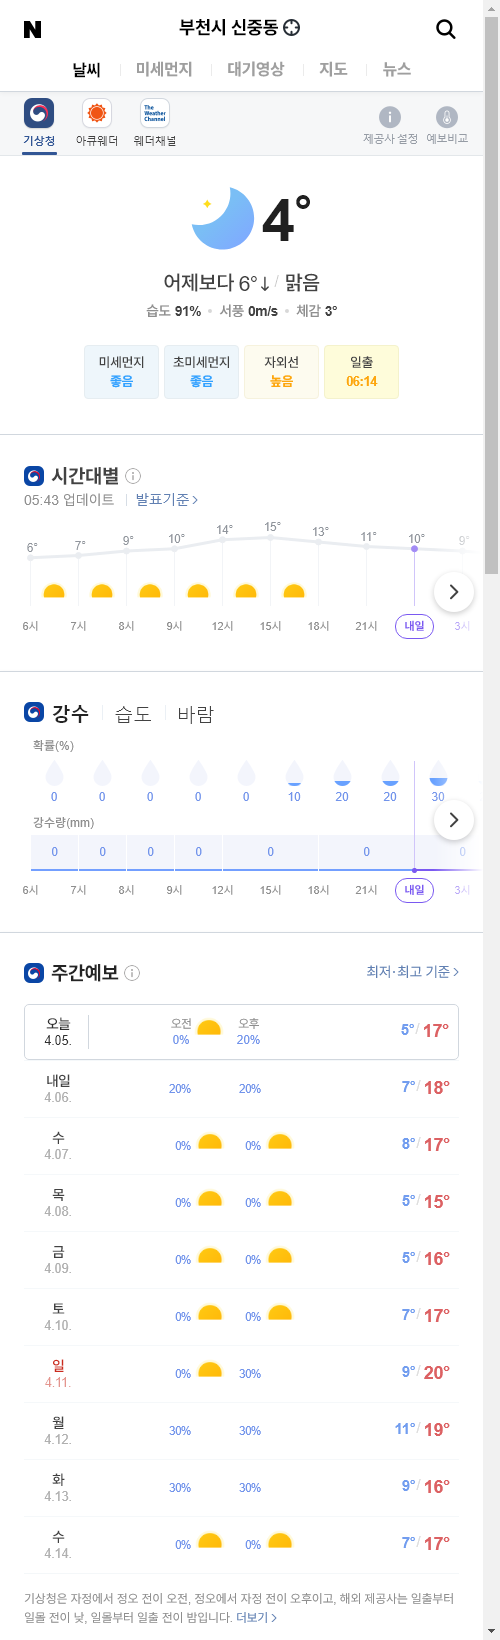
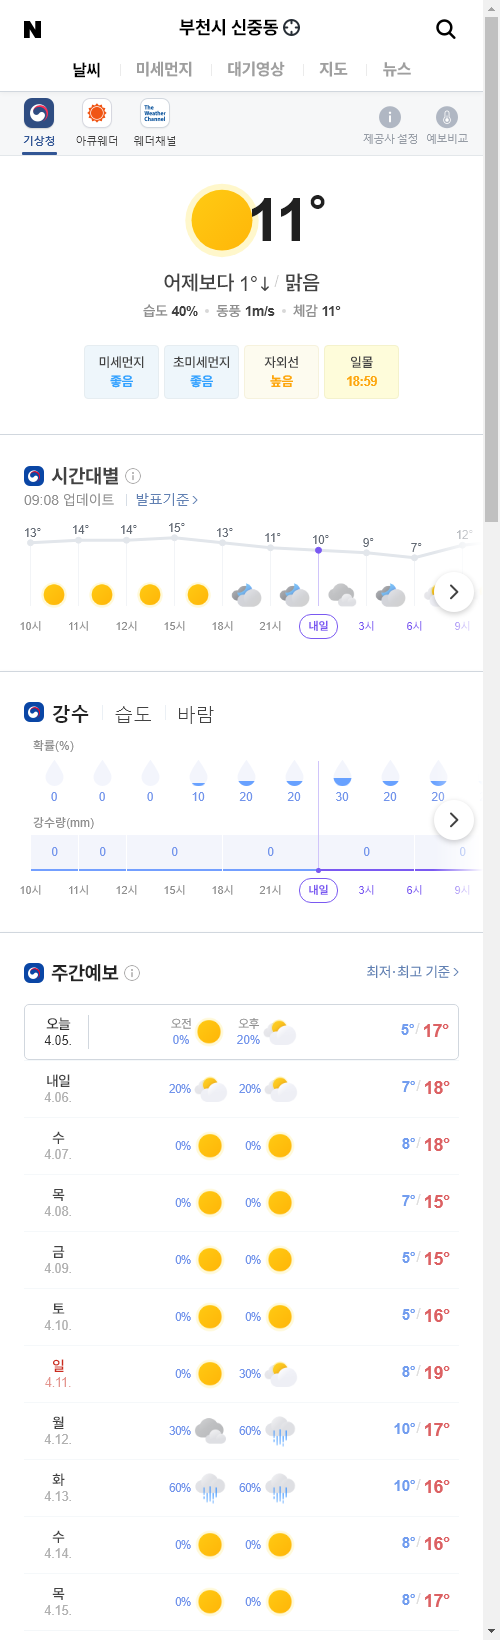
update result

diff --git a/README.md b/README.md
@@ -1,5 +1,5 @@
-##  2021-04-05 05:54:43   월요일 
-##### 날씨   -   어제보다 6° 낮아요맑음  
+##  2021-04-05 09:17:46   월요일 
+##### 날씨   -   어제보다 1° 낮아요맑음  
 <center><img src="../img/naver_weather_week.png"></center>
 ----
 ----
@@ -23,7 +23,7 @@
 ##### 시장
 <table border="1" bordercolor="blue" align = "center" >
 <tr align = "right" > <td>Item</td><td>Price</td><td>Diff</td><td>Rate</td><td>Buy</td><td>Sell</td><td>...</td>  </tr>
-<tr align = "right" > <td>USD</td><td>1,129.0</td><td>-2.5</td><td><font size="3" color="blue">-0.22%</font></td><td><font size="3" color="black">1,110</font></td><td><font size="3" color="black">0</font></td><td>0</td>  </tr>
+<tr align = "right" > <td>USD</td><td>1,128.0</td><td>-0.4</td><td><font size="3" color="blue">-0.04%</font></td><td><font size="3" color="black">1,110</font></td><td><font size="3" color="black">0</font></td><td>0</td>  </tr>
 <tr align = "right" > <td>WTI</td><td>61.45</td><td>2.29</td><td><font size="3" color="red">3.87%</font></td><td><font size="3" color="black">29.0</font></td><td><font size="3" color="black">0</font></td><td>0</td>  </tr>
 <tr align = "right" > <td>GOLD</td><td>1,726.0</td><td>12.7</td><td><font size="3" color="red">0.74%</font></td><td><font size="3" color="black">0</font></td><td><font size="3" color="black">0</font></td><td>0</td>  </tr>
 </table>
@@ -31,26 +31,26 @@
 ##### 주가
 <table border="1" bordercolor="blue" align = "center" >
 <tr align = "right" > <td>Item</td><td>Price</td><td>Diff</td><td>Rate</td><td>Purchased</td><td>Sell</td><td>Buy</td>  </tr>
-<tr align = "right" > <td>한국 전력</td><td>23,450</td><td>-50</td><td><font size="3" color="blue">-0.21%</font></td><td>25,720</td><td><font size="3" color="black">27,700</font></td><td><font size="3" color="black">20,700</font></td>  </tr>
-<tr align = "right" > <td>삼성엔지니어.</td><td>13,900</td><td>0</td><td><font size="3" color="black">0.0%</font></td><td>18,935</td><td><font size="3" color="black">20,000</font></td><td><font size="3" color="black">8,000</font></td>  </tr>
-<tr align = "right" > <td>CJ CGV</td><td>27,250</td><td>-350</td><td><font size="3" color="blue">-1.27%</font></td><td>34,895</td><td><font size="3" color="black">36,000</font></td><td><font size="3" color="black">0</font></td>  </tr>
-<tr align = "right" > <td>아모레퍼시픽</td><td>258,500</td><td>-2,500</td><td><font size="3" color="blue">-0.96%</font></td><td>235,350</td><td><font size="3" color="black">240,000</font></td><td><font size="3" color="black">130,000</font></td>  </tr>
-<tr align = "right" > <td>한화</td><td>30,750</td><td>-900</td><td><font size="3" color="blue">-2.84%</font></td><td>25,550</td><td><font size="3" color="black">26,250</font></td><td><font size="3" color="black">26,250</font></td>  </tr>
-<tr align = "right" > <td>NAVER</td><td>379,500</td><td>1,000</td><td><font size="3" color="red">0.26%</font></td><td>147,200</td><td><font size="3" color="black">386,000</font></td><td><font size="3" color="black">286,000</font></td>  </tr>
-<tr align = "right" > <td>LG 화학우</td><td>392,000</td><td>2,500</td><td><font size="3" color="red">0.64%</font></td><td>202,490</td><td><font size="3" color="black">384,000</font></td><td><font size="3" color="black">384,000</font></td>  </tr>
-<tr align = "right" > <td>스튜디오드래.</td><td>99,800</td><td>600</td><td><font size="3" color="red">0.6%</font></td><td>81,243</td><td><font size="3" color="black">85,200</font></td><td><font size="3" color="black">85,200</font></td>  </tr>
-<tr align = "right" > <td>QV미국IT</td><td>26,835</td><td>860</td><td><font size="3" color="red">3.31%</font></td><td>0</td><td><font size="3" color="black">30,000</font></td><td><font size="3" color="black">20,000</font></td>  </tr>
-<tr align = "right" > <td>삼성 전자우</td><td>74,500</td><td>1,000</td><td><font size="3" color="red">1.36%</font></td><td>48,250</td><td><font size="3" color="black">56,000</font></td><td><font size="3" color="black">45,000</font></td>  </tr>
-<tr align = "right" > <td>LS</td><td>66,500</td><td>-1,200</td><td><font size="3" color="blue">-1.77%</font></td><td>71,900</td><td><font size="3" color="black">82,000</font></td><td><font size="3" color="black">60,000</font></td>  </tr>
-<tr align = "right" > <td>한화에어로스.</td><td>39,900</td><td>-350</td><td><font size="3" color="blue">-0.87%</font></td><td>25,700</td><td><font size="3" color="black">30,000</font></td><td><font size="3" color="black">24,000</font></td>  </tr>
-<tr align = "right" > <td>카카오</td><td>501,000</td><td>2,000</td><td><font size="3" color="red">0.4%</font></td><td>405,500</td><td><font size="3" color="black">440,000</font></td><td><font size="3" color="black">400,000</font></td>  </tr>
-<tr align = "right" > <td>호텔 신라</td><td>85,900</td><td>0</td><td><font size="3" color="black">0.0%</font></td><td>72,800</td><td><font size="3" color="black">100,000</font></td><td><font size="3" color="black">70,000</font></td>  </tr>
-<tr align = "right" > <td>S-Oil</td><td>81,200</td><td>900</td><td><font size="3" color="red">1.12%</font></td><td>62,842</td><td><font size="3" color="black">100,000</font></td><td><font size="3" color="black">50,000</font></td>  </tr>
-<tr align = "right" > <td>LG전자</td><td>158,500</td><td>-500</td><td><font size="3" color="blue">-0.31%</font></td><td>82,022</td><td><font size="3" color="black">100,000</font></td><td><font size="3" color="black">60,000</font></td>  </tr>
-<tr align = "right" > <td>KT&G</td><td>81,300</td><td>-100</td><td><font size="3" color="blue">-0.12%</font></td><td>80,400</td><td><font size="3" color="black">100,000</font></td><td><font size="3" color="black">70,000</font></td>  </tr>
-<tr align = "right" > <td>지역난방공사</td><td>38,350</td><td>-50</td><td><font size="3" color="blue">-0.13%</font></td><td>43,590</td><td><font size="3" color="black">60,000</font></td><td><font size="3" color="black">30,000</font></td>  </tr>
-<tr align = "right" > <td>KOEDX은행</td><td>7,090</td><td>-60</td><td><font size="3" color="blue">-0.84%</font></td><td>5,178</td><td><font size="3" color="black">6,225</font></td><td><font size="3" color="black">6,225</font></td>  </tr>
-<tr align = "right" > <td>글로벌럭셔리</td><td>16,655</td><td>95</td><td><font size="3" color="red">0.57%</font></td><td>15,260</td><td><font size="3" color="black">20,000</font></td><td><font size="3" color="black">10,000</font></td>  </tr>
-<tr align = "right" > <td>한국금융지주</td><td>89,900</td><td>4,300</td><td><font size="3" color="red">5.02%</font></td><td>0</td><td><font size="3" color="black">82,000</font></td><td><font size="3" color="black">60,000</font></td>  </tr>
+<tr align = "right" > <td>한국 전력</td><td>23,550</td><td>100</td><td><font size="3" color="red">0.43%</font></td><td>25,720</td><td><font size="3" color="black">27,700</font></td><td><font size="3" color="black">20,700</font></td>  </tr>
+<tr align = "right" > <td>삼성엔지니어.</td><td>13,950</td><td>50</td><td><font size="3" color="red">0.36%</font></td><td>18,935</td><td><font size="3" color="black">20,000</font></td><td><font size="3" color="black">8,000</font></td>  </tr>
+<tr align = "right" > <td>CJ CGV</td><td>27,000</td><td>-250</td><td><font size="3" color="blue">-0.92%</font></td><td>34,895</td><td><font size="3" color="black">36,000</font></td><td><font size="3" color="black">0</font></td>  </tr>
+<tr align = "right" > <td>아모레퍼시픽</td><td>258,500</td><td>0</td><td><font size="3" color="black">0.0%</font></td><td>235,350</td><td><font size="3" color="black">240,000</font></td><td><font size="3" color="black">130,000</font></td>  </tr>
+<tr align = "right" > <td>한화</td><td>30,550</td><td>-200</td><td><font size="3" color="blue">-0.65%</font></td><td>25,550</td><td><font size="3" color="black">26,250</font></td><td><font size="3" color="black">26,250</font></td>  </tr>
+<tr align = "right" > <td>NAVER</td><td>378,500</td><td>-1,000</td><td><font size="3" color="blue">-0.26%</font></td><td>147,200</td><td><font size="3" color="black">386,000</font></td><td><font size="3" color="black">286,000</font></td>  </tr>
+<tr align = "right" > <td>LG 화학우</td><td>387,000</td><td>-5,000</td><td><font size="3" color="blue">-1.28%</font></td><td>202,490</td><td><font size="3" color="black">384,000</font></td><td><font size="3" color="black">384,000</font></td>  </tr>
+<tr align = "right" > <td>스튜디오드래.</td><td>99,300</td><td>-500</td><td><font size="3" color="blue">-0.5%</font></td><td>81,243</td><td><font size="3" color="black">85,200</font></td><td><font size="3" color="black">85,200</font></td>  </tr>
+<tr align = "right" > <td>QV미국IT</td><td>26,835</td><td>0</td><td><font size="3" color="black">0.0%</font></td><td>0</td><td><font size="3" color="black">30,000</font></td><td><font size="3" color="black">20,000</font></td>  </tr>
+<tr align = "right" > <td>삼성 전자우</td><td>75,100</td><td>600</td><td><font size="3" color="red">0.81%</font></td><td>48,250</td><td><font size="3" color="black">56,000</font></td><td><font size="3" color="black">45,000</font></td>  </tr>
+<tr align = "right" > <td>LS</td><td>66,400</td><td>-100</td><td><font size="3" color="blue">-0.15%</font></td><td>71,900</td><td><font size="3" color="black">82,000</font></td><td><font size="3" color="black">60,000</font></td>  </tr>
+<tr align = "right" > <td>한화에어로스.</td><td>40,300</td><td>400</td><td><font size="3" color="red">1.0%</font></td><td>25,700</td><td><font size="3" color="black">30,000</font></td><td><font size="3" color="black">24,000</font></td>  </tr>
+<tr align = "right" > <td>카카오</td><td>501,000</td><td>0</td><td><font size="3" color="black">0.0%</font></td><td>405,500</td><td><font size="3" color="black">440,000</font></td><td><font size="3" color="black">400,000</font></td>  </tr>
+<tr align = "right" > <td>호텔 신라</td><td>85,500</td><td>-400</td><td><font size="3" color="blue">-0.47%</font></td><td>72,800</td><td><font size="3" color="black">100,000</font></td><td><font size="3" color="black">70,000</font></td>  </tr>
+<tr align = "right" > <td>S-Oil</td><td>80,600</td><td>-600</td><td><font size="3" color="blue">-0.74%</font></td><td>62,842</td><td><font size="3" color="black">100,000</font></td><td><font size="3" color="black">50,000</font></td>  </tr>
+<tr align = "right" > <td>LG전자</td><td>161,500</td><td>3,000</td><td><font size="3" color="red">1.89%</font></td><td>82,022</td><td><font size="3" color="black">100,000</font></td><td><font size="3" color="black">60,000</font></td>  </tr>
+<tr align = "right" > <td>KT&G</td><td>80,900</td><td>-400</td><td><font size="3" color="blue">-0.49%</font></td><td>80,400</td><td><font size="3" color="black">100,000</font></td><td><font size="3" color="black">70,000</font></td>  </tr>
+<tr align = "right" > <td>지역난방공사</td><td>38,350</td><td>0</td><td><font size="3" color="black">0.0%</font></td><td>43,590</td><td><font size="3" color="black">60,000</font></td><td><font size="3" color="black">30,000</font></td>  </tr>
+<tr align = "right" > <td>KOEDX은행</td><td>7,100</td><td>10</td><td><font size="3" color="red">0.14%</font></td><td>5,178</td><td><font size="3" color="black">6,225</font></td><td><font size="3" color="black">6,225</font></td>  </tr>
+<tr align = "right" > <td>글로벌럭셔리</td><td>16,680</td><td>25</td><td><font size="3" color="red">0.15%</font></td><td>15,260</td><td><font size="3" color="black">20,000</font></td><td><font size="3" color="black">10,000</font></td>  </tr>
+<tr align = "right" > <td>한국금융지주</td><td>89,800</td><td>-100</td><td><font size="3" color="blue">-0.11%</font></td><td>0</td><td><font size="3" color="black">82,000</font></td><td><font size="3" color="black">60,000</font></td>  </tr>
 </table>
 ----
